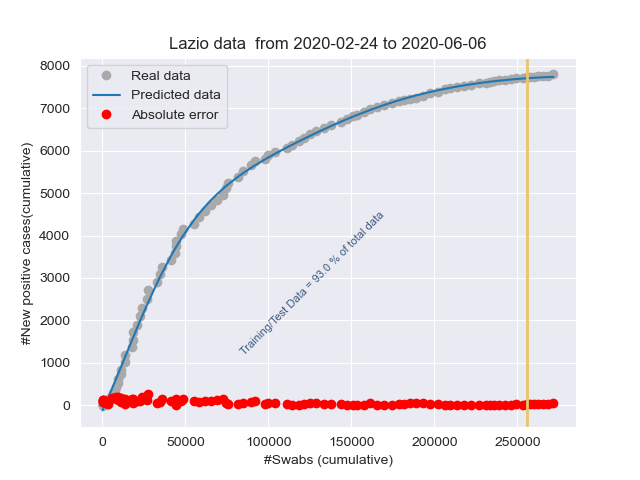
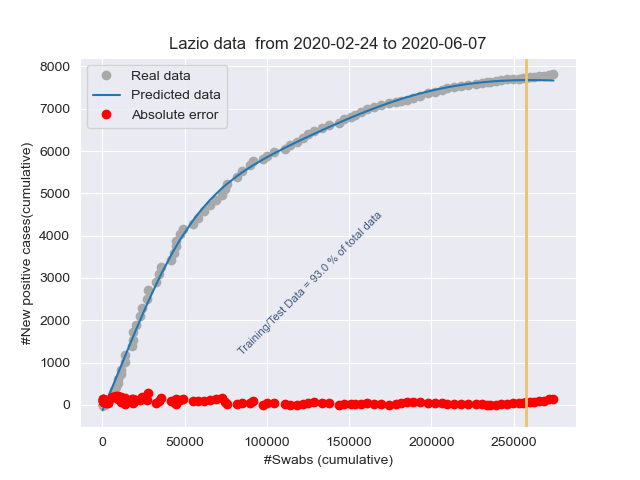
Add files via upload

diff --git a/stat_Friuli Venezia Giulia.html b/stat_Friuli Venezia Giulia.html
@@ -1,1 +1,1 @@
-<!DOCTYPE html><html lang="it"><head><title>Results</title><meta charset="utf-8"><meta name="viewport" content="width=device-width, initial-scale=1"><link rel="stylesheet" href="bootstrap.min.css"><script src="https://ajax.googleapis.com/ajax/libs/jquery/3.4.1/jquery.min.js"></script><script src="https://maxcdn.bootstrapcdn.com/bootstrap/3.4.1/js/bootstrap.min.js"></script></head><body><h3>Day: 2020-06-06</h3><p class="lead my-3">New positive cases: <b>3</b></p><p class="lead my-3">Variation of positive cases: <b>200.0%</b></p><p class="lead my-3">Number of swabs: <b>4092.0</b></p><p class="lead my-3">Variation of swabs: <b>2.88%</b></p><p class="lead my-3">Postive cases/Swabs: <b>0.07 %</b></p><p class="lead my-3">Number of people admitted to Intensive care: <b>2</b></p><p class="lead my-3">Number of recovered people: <b>22.0</b></p><p class="lead my-3">Number of dead people: <b>0.0</b></p><h3>Total</h3><p class="lead my-3">Population of  Friuli Venezia Giulia: <b>1215220</b> <a href="http://dati.istat.it/Index.aspx?QueryId=18548" target="_blank">ISTAT data</a></p><p class="lead my-3">Total number of positive cases from 2020-02-24 00:00:00 to 2020-06-06: <b> 3283</b></p><p class="lead my-3">Total number of swabs from 2020-02-24 00:00:00 to 2020-06-06: <b> 146338</b></p><p class="lead my-3">TotalSwabs/Population: <b> 12.04%</b></p></body></html>
+<!DOCTYPE html><html lang="it"><head><title>Results</title><meta charset="utf-8"><meta name="viewport" content="width=device-width, initial-scale=1"><link rel="stylesheet" href="bootstrap.min.css"><script src="https://ajax.googleapis.com/ajax/libs/jquery/3.4.1/jquery.min.js"></script><script src="https://maxcdn.bootstrapcdn.com/bootstrap/3.4.1/js/bootstrap.min.js"></script></head><body><h3>Day: 2020-06-07</h3><p class="lead my-3">New positive cases: <b>0</b></p><p class="lead my-3">Variation of positive cases: <b>-100.0%</b></p><p class="lead my-3">Number of swabs: <b>1335.0</b></p><p class="lead my-3">Variation of swabs: <b>0.91%</b></p><p class="lead my-3">Postive cases/Swabs: <b>0.0 %</b></p><p class="lead my-3">Number of people admitted to Intensive care: <b>4</b></p><p class="lead my-3">Number of recovered people: <b>9.0</b></p><p class="lead my-3">Number of dead people: <b>1.0</b></p><h3>Total</h3><p class="lead my-3">Population of  Friuli Venezia Giulia: <b>1215220</b> <a href="http://dati.istat.it/Index.aspx?QueryId=18548" target="_blank">ISTAT data</a></p><p class="lead my-3">Total number of positive cases from 2020-02-24 00:00:00 to 2020-06-07: <b> 3283</b></p><p class="lead my-3">Total number of swabs from 2020-02-24 00:00:00 to 2020-06-07: <b> 147673</b></p><p class="lead my-3">TotalSwabs/Population: <b> 12.15%</b></p></body></html>

diff --git a/stat_Lombardia.html b/stat_Lombardia.html
@@ -1,1 +1,1 @@
-<!DOCTYPE html><html lang="it"><head><title>Results</title><meta charset="utf-8"><meta name="viewport" content="width=device-width, initial-scale=1"><link rel="stylesheet" href="bootstrap.min.css"><script src="https://ajax.googleapis.com/ajax/libs/jquery/3.4.1/jquery.min.js"></script><script src="https://maxcdn.bootstrapcdn.com/bootstrap/3.4.1/js/bootstrap.min.js"></script></head><body><h3>Day: 2020-06-06</h3><p class="lead my-3">New positive cases: <b>142</b></p><p class="lead my-3">Variation of positive cases: <b>-64.68%</b></p><p class="lead my-3">Number of swabs: <b>13696.0</b></p><p class="lead my-3">Variation of swabs: <b>1.71%</b></p><p class="lead my-3">Postive cases/Swabs: <b>1.04 %</b></p><p class="lead my-3">Number of people admitted to Intensive care: <b>110</b></p><p class="lead my-3">Number of recovered people: <b>469.0</b></p><p class="lead my-3">Number of dead people: <b>27.0</b></p><h3>Total</h3><p class="lead my-3">Population of  Lombardia: <b>10060574</b> <a href="http://dati.istat.it/Index.aspx?QueryId=18548" target="_blank">ISTAT data</a></p><p class="lead my-3">Total number of positive cases from 2020-02-24 00:00:00 to 2020-06-06: <b> 90064</b></p><p class="lead my-3">Total number of swabs from 2020-02-24 00:00:00 to 2020-06-06: <b> 813972</b></p><p class="lead my-3">TotalSwabs/Population: <b> 8.09%</b></p></body></html>
+<!DOCTYPE html><html lang="it"><head><title>Results</title><meta charset="utf-8"><meta name="viewport" content="width=device-width, initial-scale=1"><link rel="stylesheet" href="bootstrap.min.css"><script src="https://ajax.googleapis.com/ajax/libs/jquery/3.4.1/jquery.min.js"></script><script src="https://maxcdn.bootstrapcdn.com/bootstrap/3.4.1/js/bootstrap.min.js"></script></head><body><h3>Day: 2020-06-07</h3><p class="lead my-3">New positive cases: <b>125</b></p><p class="lead my-3">Variation of positive cases: <b>-11.97%</b></p><p class="lead my-3">Number of swabs: <b>8005.0</b></p><p class="lead my-3">Variation of swabs: <b>0.98%</b></p><p class="lead my-3">Postive cases/Swabs: <b>1.56 %</b></p><p class="lead my-3">Number of people admitted to Intensive care: <b>107</b></p><p class="lead my-3">Number of recovered people: <b>183.0</b></p><p class="lead my-3">Number of dead people: <b>21.0</b></p><h3>Total</h3><p class="lead my-3">Population of  Lombardia: <b>10060574</b> <a href="http://dati.istat.it/Index.aspx?QueryId=18548" target="_blank">ISTAT data</a></p><p class="lead my-3">Total number of positive cases from 2020-02-24 00:00:00 to 2020-06-07: <b> 90189</b></p><p class="lead my-3">Total number of swabs from 2020-02-24 00:00:00 to 2020-06-07: <b> 821977</b></p><p class="lead my-3">TotalSwabs/Population: <b> 8.17%</b></p></body></html>

diff --git a/stat_Emilia-Romagna.html b/stat_Emilia-Romagna.html
@@ -1,1 +1,1 @@
-<!DOCTYPE html><html lang="it"><head><title>Results</title><meta charset="utf-8"><meta name="viewport" content="width=device-width, initial-scale=1"><link rel="stylesheet" href="bootstrap.min.css"><script src="https://ajax.googleapis.com/ajax/libs/jquery/3.4.1/jquery.min.js"></script><script src="https://maxcdn.bootstrapcdn.com/bootstrap/3.4.1/js/bootstrap.min.js"></script></head><body><h3>Day: 2020-06-06</h3><p class="lead my-3">New positive cases: <b>17</b></p><p class="lead my-3">Variation of positive cases: <b>0.0%</b></p><p class="lead my-3">Number of swabs: <b>4000.0</b></p><p class="lead my-3">Variation of swabs: <b>1.15%</b></p><p class="lead my-3">Postive cases/Swabs: <b>0.43 %</b></p><p class="lead my-3">Number of people admitted to Intensive care: <b>35</b></p><p class="lead my-3">Number of recovered people: <b>109.0</b></p><p class="lead my-3">Number of dead people: <b>4.0</b></p><h3>Total</h3><p class="lead my-3">Population of  Emilia-Romagna: <b>4459477</b> <a href="http://dati.istat.it/Index.aspx?QueryId=18548" target="_blank">ISTAT data</a></p><p class="lead my-3">Total number of positive cases from 2020-02-24 00:00:00 to 2020-06-06: <b> 27894</b></p><p class="lead my-3">Total number of swabs from 2020-02-24 00:00:00 to 2020-06-06: <b> 351146</b></p><p class="lead my-3">TotalSwabs/Population: <b> 7.87%</b></p></body></html>
+<!DOCTYPE html><html lang="it"><head><title>Results</title><meta charset="utf-8"><meta name="viewport" content="width=device-width, initial-scale=1"><link rel="stylesheet" href="bootstrap.min.css"><script src="https://ajax.googleapis.com/ajax/libs/jquery/3.4.1/jquery.min.js"></script><script src="https://maxcdn.bootstrapcdn.com/bootstrap/3.4.1/js/bootstrap.min.js"></script></head><body><h3>Day: 2020-06-07</h3><p class="lead my-3">New positive cases: <b>14</b></p><p class="lead my-3">Variation of positive cases: <b>-17.65%</b></p><p class="lead my-3">Number of swabs: <b>4806.0</b></p><p class="lead my-3">Variation of swabs: <b>1.37%</b></p><p class="lead my-3">Postive cases/Swabs: <b>0.29 %</b></p><p class="lead my-3">Number of people admitted to Intensive care: <b>32</b></p><p class="lead my-3">Number of recovered people: <b>98.0</b></p><p class="lead my-3">Number of dead people: <b>4.0</b></p><h3>Total</h3><p class="lead my-3">Population of  Emilia-Romagna: <b>4459477</b> <a href="http://dati.istat.it/Index.aspx?QueryId=18548" target="_blank">ISTAT data</a></p><p class="lead my-3">Total number of positive cases from 2020-02-24 00:00:00 to 2020-06-07: <b> 27908</b></p><p class="lead my-3">Total number of swabs from 2020-02-24 00:00:00 to 2020-06-07: <b> 355952</b></p><p class="lead my-3">TotalSwabs/Population: <b> 7.98%</b></p></body></html>

diff --git a/stat_Italy.html b/stat_Italy.html
@@ -1,1 +1,1 @@
-<!DOCTYPE html><html lang="it"><head><title>Results</title><meta charset="utf-8"><meta name="viewport" content="width=device-width, initial-scale=1"><link rel="stylesheet" href="bootstrap.min.css"><script src="https://ajax.googleapis.com/ajax/libs/jquery/3.4.1/jquery.min.js"></script><script src="https://maxcdn.bootstrapcdn.com/bootstrap/3.4.1/js/bootstrap.min.js"></script></head><body><h3>Day: 2020-06-06</h3><p class="lead my-3">New positive cases: <b>270</b></p><p class="lead my-3">Variation of positive cases: <b>-47.88%</b></p><p class="lead my-3">Number of swabs: <b>72485.0</b></p><p class="lead my-3">Variation of swabs: <b>1.76%</b></p><p class="lead my-3">Postive cases/Swabs: <b>0.37 %</b></p><p class="lead my-3">Number of people admitted to Intensive care: <b>293</b></p><p class="lead my-3">Number of recovered people: <b>1297.0</b></p><p class="lead my-3">Number of dead people: <b>72.0</b></p><h3>Total</h3><p class="lead my-3">Population of  Italy: <b>60359546</b> <a href="http://dati.istat.it/Index.aspx?QueryId=18548" target="_blank">ISTAT data</a></p><p class="lead my-3">Total number of positive cases from 2020-02-24 00:00:00 to 2020-06-06: <b> 234793</b></p><p class="lead my-3">Total number of swabs from 2020-02-24 00:00:00 to 2020-06-06: <b> 4187057</b></p><p class="lead my-3">TotalSwabs/Population: <b> 6.94%</b></p></body></html>
+<!DOCTYPE html><html lang="it"><head><title>Results</title><meta charset="utf-8"><meta name="viewport" content="width=device-width, initial-scale=1"><link rel="stylesheet" href="bootstrap.min.css"><script src="https://ajax.googleapis.com/ajax/libs/jquery/3.4.1/jquery.min.js"></script><script src="https://maxcdn.bootstrapcdn.com/bootstrap/3.4.1/js/bootstrap.min.js"></script></head><body><h3>Day: 2020-06-07</h3><p class="lead my-3">New positive cases: <b>197</b></p><p class="lead my-3">Variation of positive cases: <b>-27.04%</b></p><p class="lead my-3">Number of swabs: <b>49478.0</b></p><p class="lead my-3">Variation of swabs: <b>1.18%</b></p><p class="lead my-3">Postive cases/Swabs: <b>0.4 %</b></p><p class="lead my-3">Number of people admitted to Intensive care: <b>287</b></p><p class="lead my-3">Number of recovered people: <b>759.0</b></p><p class="lead my-3">Number of dead people: <b>53.0</b></p><h3>Total</h3><p class="lead my-3">Population of  Italy: <b>60359546</b> <a href="http://dati.istat.it/Index.aspx?QueryId=18548" target="_blank">ISTAT data</a></p><p class="lead my-3">Total number of positive cases from 2020-02-24 00:00:00 to 2020-06-07: <b> 234990</b></p><p class="lead my-3">Total number of swabs from 2020-02-24 00:00:00 to 2020-06-07: <b> 4236535</b></p><p class="lead my-3">TotalSwabs/Population: <b> 7.02%</b></p></body></html>

diff --git a/stat_Piemonte.html b/stat_Piemonte.html
@@ -1,1 +1,1 @@
-<!DOCTYPE html><html lang="it"><head><title>Results</title><meta charset="utf-8"><meta name="viewport" content="width=device-width, initial-scale=1"><link rel="stylesheet" href="bootstrap.min.css"><script src="https://ajax.googleapis.com/ajax/libs/jquery/3.4.1/jquery.min.js"></script><script src="https://maxcdn.bootstrapcdn.com/bootstrap/3.4.1/js/bootstrap.min.js"></script></head><body><h3>Day: 2020-06-06</h3><p class="lead my-3">New positive cases: <b>38</b></p><p class="lead my-3">Variation of positive cases: <b>-22.45%</b></p><p class="lead my-3">Number of swabs: <b>4362.0</b></p><p class="lead my-3">Variation of swabs: <b>1.3%</b></p><p class="lead my-3">Postive cases/Swabs: <b>0.87 %</b></p><p class="lead my-3">Number of people admitted to Intensive care: <b>37</b></p><p class="lead my-3">Number of recovered people: <b>233.0</b></p><p class="lead my-3">Number of dead people: <b>7.0</b></p><h3>Total</h3><p class="lead my-3">Population of  Piemonte: <b>4356406</b> <a href="http://dati.istat.it/Index.aspx?QueryId=18548" target="_blank">ISTAT data</a></p><p class="lead my-3">Total number of positive cases from 2020-02-24 00:00:00 to 2020-06-06: <b> 30845</b></p><p class="lead my-3">Total number of swabs from 2020-02-24 00:00:00 to 2020-06-06: <b> 340176</b></p><p class="lead my-3">TotalSwabs/Population: <b> 7.81%</b></p></body></html>
+<!DOCTYPE html><html lang="it"><head><title>Results</title><meta charset="utf-8"><meta name="viewport" content="width=device-width, initial-scale=1"><link rel="stylesheet" href="bootstrap.min.css"><script src="https://ajax.googleapis.com/ajax/libs/jquery/3.4.1/jquery.min.js"></script><script src="https://maxcdn.bootstrapcdn.com/bootstrap/3.4.1/js/bootstrap.min.js"></script></head><body><h3>Day: 2020-06-07</h3><p class="lead my-3">New positive cases: <b>10</b></p><p class="lead my-3">Variation of positive cases: <b>-73.68%</b></p><p class="lead my-3">Number of swabs: <b>3178.0</b></p><p class="lead my-3">Variation of swabs: <b>0.93%</b></p><p class="lead my-3">Postive cases/Swabs: <b>0.31 %</b></p><p class="lead my-3">Number of people admitted to Intensive care: <b>38</b></p><p class="lead my-3">Number of recovered people: <b>208.0</b></p><p class="lead my-3">Number of dead people: <b>7.0</b></p><h3>Total</h3><p class="lead my-3">Population of  Piemonte: <b>4356406</b> <a href="http://dati.istat.it/Index.aspx?QueryId=18548" target="_blank">ISTAT data</a></p><p class="lead my-3">Total number of positive cases from 2020-02-24 00:00:00 to 2020-06-07: <b> 30855</b></p><p class="lead my-3">Total number of swabs from 2020-02-24 00:00:00 to 2020-06-07: <b> 343354</b></p><p class="lead my-3">TotalSwabs/Population: <b> 7.88%</b></p></body></html>

diff --git a/stat_Toscana.html b/stat_Toscana.html
@@ -1,1 +1,1 @@
-<!DOCTYPE html><html lang="it"><head><title>Results</title><meta charset="utf-8"><meta name="viewport" content="width=device-width, initial-scale=1"><link rel="stylesheet" href="bootstrap.min.css"><script src="https://ajax.googleapis.com/ajax/libs/jquery/3.4.1/jquery.min.js"></script><script src="https://maxcdn.bootstrapcdn.com/bootstrap/3.4.1/js/bootstrap.min.js"></script></head><body><h3>Day: 2020-06-06</h3><p class="lead my-3">New positive cases: <b>5</b></p><p class="lead my-3">Variation of positive cases: <b>-28.57%</b></p><p class="lead my-3">Number of swabs: <b>2790.0</b></p><p class="lead my-3">Variation of swabs: <b>1.05%</b></p><p class="lead my-3">Postive cases/Swabs: <b>0.18 %</b></p><p class="lead my-3">Number of people admitted to Intensive care: <b>22</b></p><p class="lead my-3">Number of recovered people: <b>72.0</b></p><p class="lead my-3">Number of dead people: <b>5.0</b></p><h3>Total</h3><p class="lead my-3">Population of  Toscana: <b>3729641</b> <a href="http://dati.istat.it/Index.aspx?QueryId=18548" target="_blank">ISTAT data</a></p><p class="lead my-3">Total number of positive cases from 2020-02-24 00:00:00 to 2020-06-06: <b> 10134</b></p><p class="lead my-3">Total number of swabs from 2020-02-24 00:00:00 to 2020-06-06: <b> 269298</b></p><p class="lead my-3">TotalSwabs/Population: <b> 7.22%</b></p></body></html>
+<!DOCTYPE html><html lang="it"><head><title>Results</title><meta charset="utf-8"><meta name="viewport" content="width=device-width, initial-scale=1"><link rel="stylesheet" href="bootstrap.min.css"><script src="https://ajax.googleapis.com/ajax/libs/jquery/3.4.1/jquery.min.js"></script><script src="https://maxcdn.bootstrapcdn.com/bootstrap/3.4.1/js/bootstrap.min.js"></script></head><body><h3>Day: 2020-06-07</h3><p class="lead my-3">New positive cases: <b>1</b></p><p class="lead my-3">Variation of positive cases: <b>-80.0%</b></p><p class="lead my-3">Number of swabs: <b>2808.0</b></p><p class="lead my-3">Variation of swabs: <b>1.04%</b></p><p class="lead my-3">Postive cases/Swabs: <b>0.04 %</b></p><p class="lead my-3">Number of people admitted to Intensive care: <b>20</b></p><p class="lead my-3">Number of recovered people: <b>34.0</b></p><p class="lead my-3">Number of dead people: <b>2.0</b></p><h3>Total</h3><p class="lead my-3">Population of  Toscana: <b>3729641</b> <a href="http://dati.istat.it/Index.aspx?QueryId=18548" target="_blank">ISTAT data</a></p><p class="lead my-3">Total number of positive cases from 2020-02-24 00:00:00 to 2020-06-07: <b> 10135</b></p><p class="lead my-3">Total number of swabs from 2020-02-24 00:00:00 to 2020-06-07: <b> 272106</b></p><p class="lead my-3">TotalSwabs/Population: <b> 7.3%</b></p></body></html>

diff --git a/stat_Veneto.html b/stat_Veneto.html
@@ -1,1 +1,1 @@
-<!DOCTYPE html><html lang="it"><head><title>Results</title><meta charset="utf-8"><meta name="viewport" content="width=device-width, initial-scale=1"><link rel="stylesheet" href="bootstrap.min.css"><script src="https://ajax.googleapis.com/ajax/libs/jquery/3.4.1/jquery.min.js"></script><script src="https://maxcdn.bootstrapcdn.com/bootstrap/3.4.1/js/bootstrap.min.js"></script></head><body><h3>Day: 2020-06-06</h3><p class="lead my-3">New positive cases: <b>8</b></p><p class="lead my-3">Variation of positive cases: <b>33.33%</b></p><p class="lead my-3">Number of swabs: <b>20630.0</b></p><p class="lead my-3">Variation of swabs: <b>2.89%</b></p><p class="lead my-3">Postive cases/Swabs: <b>0.04 %</b></p><p class="lead my-3">Number of people admitted to Intensive care: <b>2</b></p><p class="lead my-3">Number of recovered people: <b>62.0</b></p><p class="lead my-3">Number of dead people: <b>11.0</b></p><h3>Total</h3><p class="lead my-3">Population of  Veneto: <b>4905854</b> <a href="http://dati.istat.it/Index.aspx?QueryId=18548" target="_blank">ISTAT data</a></p><p class="lead my-3">Total number of positive cases from 2020-02-24 00:00:00 to 2020-06-06: <b> 19181</b></p><p class="lead my-3">Total number of swabs from 2020-02-24 00:00:00 to 2020-06-06: <b> 734130</b></p><p class="lead my-3">TotalSwabs/Population: <b> 14.96%</b></p></body></html>
+<!DOCTYPE html><html lang="it"><head><title>Results</title><meta charset="utf-8"><meta name="viewport" content="width=device-width, initial-scale=1"><link rel="stylesheet" href="bootstrap.min.css"><script src="https://ajax.googleapis.com/ajax/libs/jquery/3.4.1/jquery.min.js"></script><script src="https://maxcdn.bootstrapcdn.com/bootstrap/3.4.1/js/bootstrap.min.js"></script></head><body><h3>Day: 2020-06-07</h3><p class="lead my-3">New positive cases: <b>1</b></p><p class="lead my-3">Variation of positive cases: <b>-87.5%</b></p><p class="lead my-3">Number of swabs: <b>11675.0</b></p><p class="lead my-3">Variation of swabs: <b>1.59%</b></p><p class="lead my-3">Postive cases/Swabs: <b>0.01 %</b></p><p class="lead my-3">Number of people admitted to Intensive care: <b>1</b></p><p class="lead my-3">Number of recovered people: <b>75.0</b></p><p class="lead my-3">Number of dead people: <b>5.0</b></p><h3>Total</h3><p class="lead my-3">Population of  Veneto: <b>4905854</b> <a href="http://dati.istat.it/Index.aspx?QueryId=18548" target="_blank">ISTAT data</a></p><p class="lead my-3">Total number of positive cases from 2020-02-24 00:00:00 to 2020-06-07: <b> 19182</b></p><p class="lead my-3">Total number of swabs from 2020-02-24 00:00:00 to 2020-06-07: <b> 745805</b></p><p class="lead my-3">TotalSwabs/Population: <b> 15.2%</b></p></body></html>

diff --git a/stat_P.A. Bolzano.html b/stat_P.A. Bolzano.html
@@ -1,1 +1,1 @@
-<!DOCTYPE html><html lang="it"><head><title>Results</title><meta charset="utf-8"><meta name="viewport" content="width=device-width, initial-scale=1"><link rel="stylesheet" href="bootstrap.min.css"><script src="https://ajax.googleapis.com/ajax/libs/jquery/3.4.1/jquery.min.js"></script><script src="https://maxcdn.bootstrapcdn.com/bootstrap/3.4.1/js/bootstrap.min.js"></script></head><body><h3>Day: 2020-06-06</h3><p class="lead my-3">New positive cases: <b>1</b></p><p class="lead my-3">Variation of positive cases: <b>0.0%</b></p><p class="lead my-3">Number of swabs: <b>1112.0</b></p><p class="lead my-3">Variation of swabs: <b>1.6%</b></p><p class="lead my-3">Postive cases/Swabs: <b>0.09 %</b></p><p class="lead my-3">Number of people admitted to Intensive care: <b>2</b></p><p class="lead my-3">Number of recovered people: <b>2.0</b></p><p class="lead my-3">Number of dead people: <b>0.0</b></p><h3>Total</h3><p class="lead my-3">Population of  P.A. Bolzano: <b>531178</b> <a href="http://dati.istat.it/Index.aspx?QueryId=18548" target="_blank">ISTAT data</a></p><p class="lead my-3">Total number of positive cases from 2020-02-24 00:00:00 to 2020-06-06: <b> 2600</b></p><p class="lead my-3">Total number of swabs from 2020-02-24 00:00:00 to 2020-06-06: <b> 70578</b></p><p class="lead my-3">TotalSwabs/Population: <b> 13.29%</b></p></body></html>
+<!DOCTYPE html><html lang="it"><head><title>Results</title><meta charset="utf-8"><meta name="viewport" content="width=device-width, initial-scale=1"><link rel="stylesheet" href="bootstrap.min.css"><script src="https://ajax.googleapis.com/ajax/libs/jquery/3.4.1/jquery.min.js"></script><script src="https://maxcdn.bootstrapcdn.com/bootstrap/3.4.1/js/bootstrap.min.js"></script></head><body><h3>Day: 2020-06-07</h3><p class="lead my-3">New positive cases: <b>3</b></p><p class="lead my-3">Variation of positive cases: <b>200.0%</b></p><p class="lead my-3">Number of swabs: <b>1177.0</b></p><p class="lead my-3">Variation of swabs: <b>1.67%</b></p><p class="lead my-3">Postive cases/Swabs: <b>0.25 %</b></p><p class="lead my-3">Number of people admitted to Intensive care: <b>2</b></p><p class="lead my-3">Number of recovered people: <b>6.0</b></p><p class="lead my-3">Number of dead people: <b>0.0</b></p><h3>Total</h3><p class="lead my-3">Population of  P.A. Bolzano: <b>531178</b> <a href="http://dati.istat.it/Index.aspx?QueryId=18548" target="_blank">ISTAT data</a></p><p class="lead my-3">Total number of positive cases from 2020-02-24 00:00:00 to 2020-06-07: <b> 2603</b></p><p class="lead my-3">Total number of swabs from 2020-02-24 00:00:00 to 2020-06-07: <b> 71755</b></p><p class="lead my-3">TotalSwabs/Population: <b> 13.51%</b></p></body></html>

diff --git a/stat_Lazio.html b/stat_Lazio.html
@@ -1,1 +1,1 @@
-<!DOCTYPE html><html lang="it"><head><title>Results</title><meta charset="utf-8"><meta name="viewport" content="width=device-width, initial-scale=1"><link rel="stylesheet" href="bootstrap.min.css"><script src="https://ajax.googleapis.com/ajax/libs/jquery/3.4.1/jquery.min.js"></script><script src="https://maxcdn.bootstrapcdn.com/bootstrap/3.4.1/js/bootstrap.min.js"></script></head><body><h3>Day: 2020-06-06</h3><p class="lead my-3">New positive cases: <b>28</b></p><p class="lead my-3">Variation of positive cases: <b>211.11%</b></p><p class="lead my-3">Number of swabs: <b>3101.0</b></p><p class="lead my-3">Variation of swabs: <b>1.15%</b></p><p class="lead my-3">Postive cases/Swabs: <b>0.9 %</b></p><p class="lead my-3">Number of people admitted to Intensive care: <b>49</b></p><p class="lead my-3">Number of recovered people: <b>37.0</b></p><p class="lead my-3">Number of dead people: <b>4.0</b></p><h3>Total</h3><p class="lead my-3">Population of  Lazio: <b>5879082</b> <a href="http://dati.istat.it/Index.aspx?QueryId=18548" target="_blank">ISTAT data</a></p><p class="lead my-3">Total number of positive cases from 2020-02-24 00:00:00 to 2020-06-06: <b> 7800</b></p><p class="lead my-3">Total number of swabs from 2020-02-24 00:00:00 to 2020-06-06: <b> 271662</b></p><p class="lead my-3">TotalSwabs/Population: <b> 4.62%</b></p></body></html>
+<!DOCTYPE html><html lang="it"><head><title>Results</title><meta charset="utf-8"><meta name="viewport" content="width=device-width, initial-scale=1"><link rel="stylesheet" href="bootstrap.min.css"><script src="https://ajax.googleapis.com/ajax/libs/jquery/3.4.1/jquery.min.js"></script><script src="https://maxcdn.bootstrapcdn.com/bootstrap/3.4.1/js/bootstrap.min.js"></script></head><body><h3>Day: 2020-06-07</h3><p class="lead my-3">New positive cases: <b>11</b></p><p class="lead my-3">Variation of positive cases: <b>-60.71%</b></p><p class="lead my-3">Number of swabs: <b>2467.0</b></p><p class="lead my-3">Variation of swabs: <b>0.91%</b></p><p class="lead my-3">Postive cases/Swabs: <b>0.45 %</b></p><p class="lead my-3">Number of people admitted to Intensive care: <b>49</b></p><p class="lead my-3">Number of recovered people: <b>16.0</b></p><p class="lead my-3">Number of dead people: <b>2.0</b></p><h3>Total</h3><p class="lead my-3">Population of  Lazio: <b>5879082</b> <a href="http://dati.istat.it/Index.aspx?QueryId=18548" target="_blank">ISTAT data</a></p><p class="lead my-3">Total number of positive cases from 2020-02-24 00:00:00 to 2020-06-07: <b> 7811</b></p><p class="lead my-3">Total number of swabs from 2020-02-24 00:00:00 to 2020-06-07: <b> 274129</b></p><p class="lead my-3">TotalSwabs/Population: <b> 4.66%</b></p></body></html>

diff --git a/stat_P.A. Trento.html b/stat_P.A. Trento.html
@@ -1,1 +1,1 @@
-<!DOCTYPE html><html lang="it"><head><title>Results</title><meta charset="utf-8"><meta name="viewport" content="width=device-width, initial-scale=1"><link rel="stylesheet" href="bootstrap.min.css"><script src="https://ajax.googleapis.com/ajax/libs/jquery/3.4.1/jquery.min.js"></script><script src="https://maxcdn.bootstrapcdn.com/bootstrap/3.4.1/js/bootstrap.min.js"></script></head><body><h3>Day: 2020-06-06</h3><p class="lead my-3">New positive cases: <b>1</b></p><p class="lead my-3">Variation of positive cases: <b>inf%</b></p><p class="lead my-3">Number of swabs: <b>1243.0</b></p><p class="lead my-3">Variation of swabs: <b>1.34%</b></p><p class="lead my-3">Postive cases/Swabs: <b>0.08 %</b></p><p class="lead my-3">Number of people admitted to Intensive care: <b>1</b></p><p class="lead my-3">Number of recovered people: <b>20.0</b></p><p class="lead my-3">Number of dead people: <b>0.0</b></p><h3>Total</h3><p class="lead my-3">Population of  P.A. Trento: <b>541098</b> <a href="http://dati.istat.it/Index.aspx?QueryId=18548" target="_blank">ISTAT data</a></p><p class="lead my-3">Total number of positive cases from 2020-02-24 00:00:00 to 2020-06-06: <b> 4434</b></p><p class="lead my-3">Total number of swabs from 2020-02-24 00:00:00 to 2020-06-06: <b> 94159</b></p><p class="lead my-3">TotalSwabs/Population: <b> 17.4%</b></p></body></html>
+<!DOCTYPE html><html lang="it"><head><title>Results</title><meta charset="utf-8"><meta name="viewport" content="width=device-width, initial-scale=1"><link rel="stylesheet" href="bootstrap.min.css"><script src="https://ajax.googleapis.com/ajax/libs/jquery/3.4.1/jquery.min.js"></script><script src="https://maxcdn.bootstrapcdn.com/bootstrap/3.4.1/js/bootstrap.min.js"></script></head><body><h3>Day: 2020-06-07</h3><p class="lead my-3">New positive cases: <b>1</b></p><p class="lead my-3">Variation of positive cases: <b>0.0%</b></p><p class="lead my-3">Number of swabs: <b>1479.0</b></p><p class="lead my-3">Variation of swabs: <b>1.57%</b></p><p class="lead my-3">Postive cases/Swabs: <b>0.07 %</b></p><p class="lead my-3">Number of people admitted to Intensive care: <b>1</b></p><p class="lead my-3">Number of recovered people: <b>23.0</b></p><p class="lead my-3">Number of dead people: <b>0.0</b></p><h3>Total</h3><p class="lead my-3">Population of  P.A. Trento: <b>541098</b> <a href="http://dati.istat.it/Index.aspx?QueryId=18548" target="_blank">ISTAT data</a></p><p class="lead my-3">Total number of positive cases from 2020-02-24 00:00:00 to 2020-06-07: <b> 4435</b></p><p class="lead my-3">Total number of swabs from 2020-02-24 00:00:00 to 2020-06-07: <b> 95638</b></p><p class="lead my-3">TotalSwabs/Population: <b> 17.67%</b></p></body></html>

diff --git a/stat_Sardegna.html b/stat_Sardegna.html
@@ -1,1 +1,1 @@
-<!DOCTYPE html><html lang="it"><head><title>Results</title><meta charset="utf-8"><meta name="viewport" content="width=device-width, initial-scale=1"><link rel="stylesheet" href="bootstrap.min.css"><script src="https://ajax.googleapis.com/ajax/libs/jquery/3.4.1/jquery.min.js"></script><script src="https://maxcdn.bootstrapcdn.com/bootstrap/3.4.1/js/bootstrap.min.js"></script></head><body><h3>Day: 2020-06-06</h3><p class="lead my-3">New positive cases: <b>3</b></p><p class="lead my-3">Variation of positive cases: <b>50.0%</b></p><p class="lead my-3">Number of swabs: <b>1351.0</b></p><p class="lead my-3">Variation of swabs: <b>2.22%</b></p><p class="lead my-3">Postive cases/Swabs: <b>0.22 %</b></p><p class="lead my-3">Number of people admitted to Intensive care: <b>1</b></p><p class="lead my-3">Number of recovered people: <b>10.0</b></p><p class="lead my-3">Number of dead people: <b>0.0</b></p><h3>Total</h3><p class="lead my-3">Population of  Sardegna: <b>1639591</b> <a href="http://dati.istat.it/Index.aspx?QueryId=18548" target="_blank">ISTAT data</a></p><p class="lead my-3">Total number of positive cases from 2020-02-24 00:00:00 to 2020-06-06: <b> 1362</b></p><p class="lead my-3">Total number of swabs from 2020-02-24 00:00:00 to 2020-06-06: <b> 62145</b></p><p class="lead my-3">TotalSwabs/Population: <b> 3.79%</b></p></body></html>
+<!DOCTYPE html><html lang="it"><head><title>Results</title><meta charset="utf-8"><meta name="viewport" content="width=device-width, initial-scale=1"><link rel="stylesheet" href="bootstrap.min.css"><script src="https://ajax.googleapis.com/ajax/libs/jquery/3.4.1/jquery.min.js"></script><script src="https://maxcdn.bootstrapcdn.com/bootstrap/3.4.1/js/bootstrap.min.js"></script></head><body><h3>Day: 2020-06-07</h3><p class="lead my-3">New positive cases: <b>0</b></p><p class="lead my-3">Variation of positive cases: <b>-100.0%</b></p><p class="lead my-3">Number of swabs: <b>1027.0</b></p><p class="lead my-3">Variation of swabs: <b>1.65%</b></p><p class="lead my-3">Postive cases/Swabs: <b>0.0 %</b></p><p class="lead my-3">Number of people admitted to Intensive care: <b>1</b></p><p class="lead my-3">Number of recovered people: <b>1.0</b></p><p class="lead my-3">Number of dead people: <b>0.0</b></p><h3>Total</h3><p class="lead my-3">Population of  Sardegna: <b>1639591</b> <a href="http://dati.istat.it/Index.aspx?QueryId=18548" target="_blank">ISTAT data</a></p><p class="lead my-3">Total number of positive cases from 2020-02-24 00:00:00 to 2020-06-07: <b> 1362</b></p><p class="lead my-3">Total number of swabs from 2020-02-24 00:00:00 to 2020-06-07: <b> 63172</b></p><p class="lead my-3">TotalSwabs/Population: <b> 3.85%</b></p></body></html>

diff --git a/stat_Campania.html b/stat_Campania.html
@@ -1,1 +1,1 @@
-<!DOCTYPE html><html lang="it"><head><title>Results</title><meta charset="utf-8"><meta name="viewport" content="width=device-width, initial-scale=1"><link rel="stylesheet" href="bootstrap.min.css"><script src="https://ajax.googleapis.com/ajax/libs/jquery/3.4.1/jquery.min.js"></script><script src="https://maxcdn.bootstrapcdn.com/bootstrap/3.4.1/js/bootstrap.min.js"></script></head><body><h3>Day: 2020-06-06</h3><p class="lead my-3">New positive cases: <b>0</b></p><p class="lead my-3">Variation of positive cases: <b>0.0%</b></p><p class="lead my-3">Number of swabs: <b>2918.0</b></p><p class="lead my-3">Variation of swabs: <b>1.37%</b></p><p class="lead my-3">Postive cases/Swabs: <b>0.0 %</b></p><p class="lead my-3">Number of people admitted to Intensive care: <b>7</b></p><p class="lead my-3">Number of recovered people: <b>35.0</b></p><p class="lead my-3">Number of dead people: <b>1.0</b></p><h3>Total</h3><p class="lead my-3">Population of  Campania: <b>5801692</b> <a href="http://dati.istat.it/Index.aspx?QueryId=18548" target="_blank">ISTAT data</a></p><p class="lead my-3">Total number of positive cases from 2020-02-24 00:00:00 to 2020-06-06: <b> 4822</b></p><p class="lead my-3">Total number of swabs from 2020-02-24 00:00:00 to 2020-06-06: <b> 215404</b></p><p class="lead my-3">TotalSwabs/Population: <b> 3.71%</b></p></body></html>
+<!DOCTYPE html><html lang="it"><head><title>Results</title><meta charset="utf-8"><meta name="viewport" content="width=device-width, initial-scale=1"><link rel="stylesheet" href="bootstrap.min.css"><script src="https://ajax.googleapis.com/ajax/libs/jquery/3.4.1/jquery.min.js"></script><script src="https://maxcdn.bootstrapcdn.com/bootstrap/3.4.1/js/bootstrap.min.js"></script></head><body><h3>Day: 2020-06-07</h3><p class="lead my-3">New positive cases: <b>4</b></p><p class="lead my-3">Variation of positive cases: <b>inf%</b></p><p class="lead my-3">Number of swabs: <b>2494.0</b></p><p class="lead my-3">Variation of swabs: <b>1.16%</b></p><p class="lead my-3">Postive cases/Swabs: <b>0.16 %</b></p><p class="lead my-3">Number of people admitted to Intensive care: <b>6</b></p><p class="lead my-3">Number of recovered people: <b>17.0</b></p><p class="lead my-3">Number of dead people: <b>0.0</b></p><h3>Total</h3><p class="lead my-3">Population of  Campania: <b>5801692</b> <a href="http://dati.istat.it/Index.aspx?QueryId=18548" target="_blank">ISTAT data</a></p><p class="lead my-3">Total number of positive cases from 2020-02-24 00:00:00 to 2020-06-07: <b> 4826</b></p><p class="lead my-3">Total number of swabs from 2020-02-24 00:00:00 to 2020-06-07: <b> 217898</b></p><p class="lead my-3">TotalSwabs/Population: <b> 3.76%</b></p></body></html>
